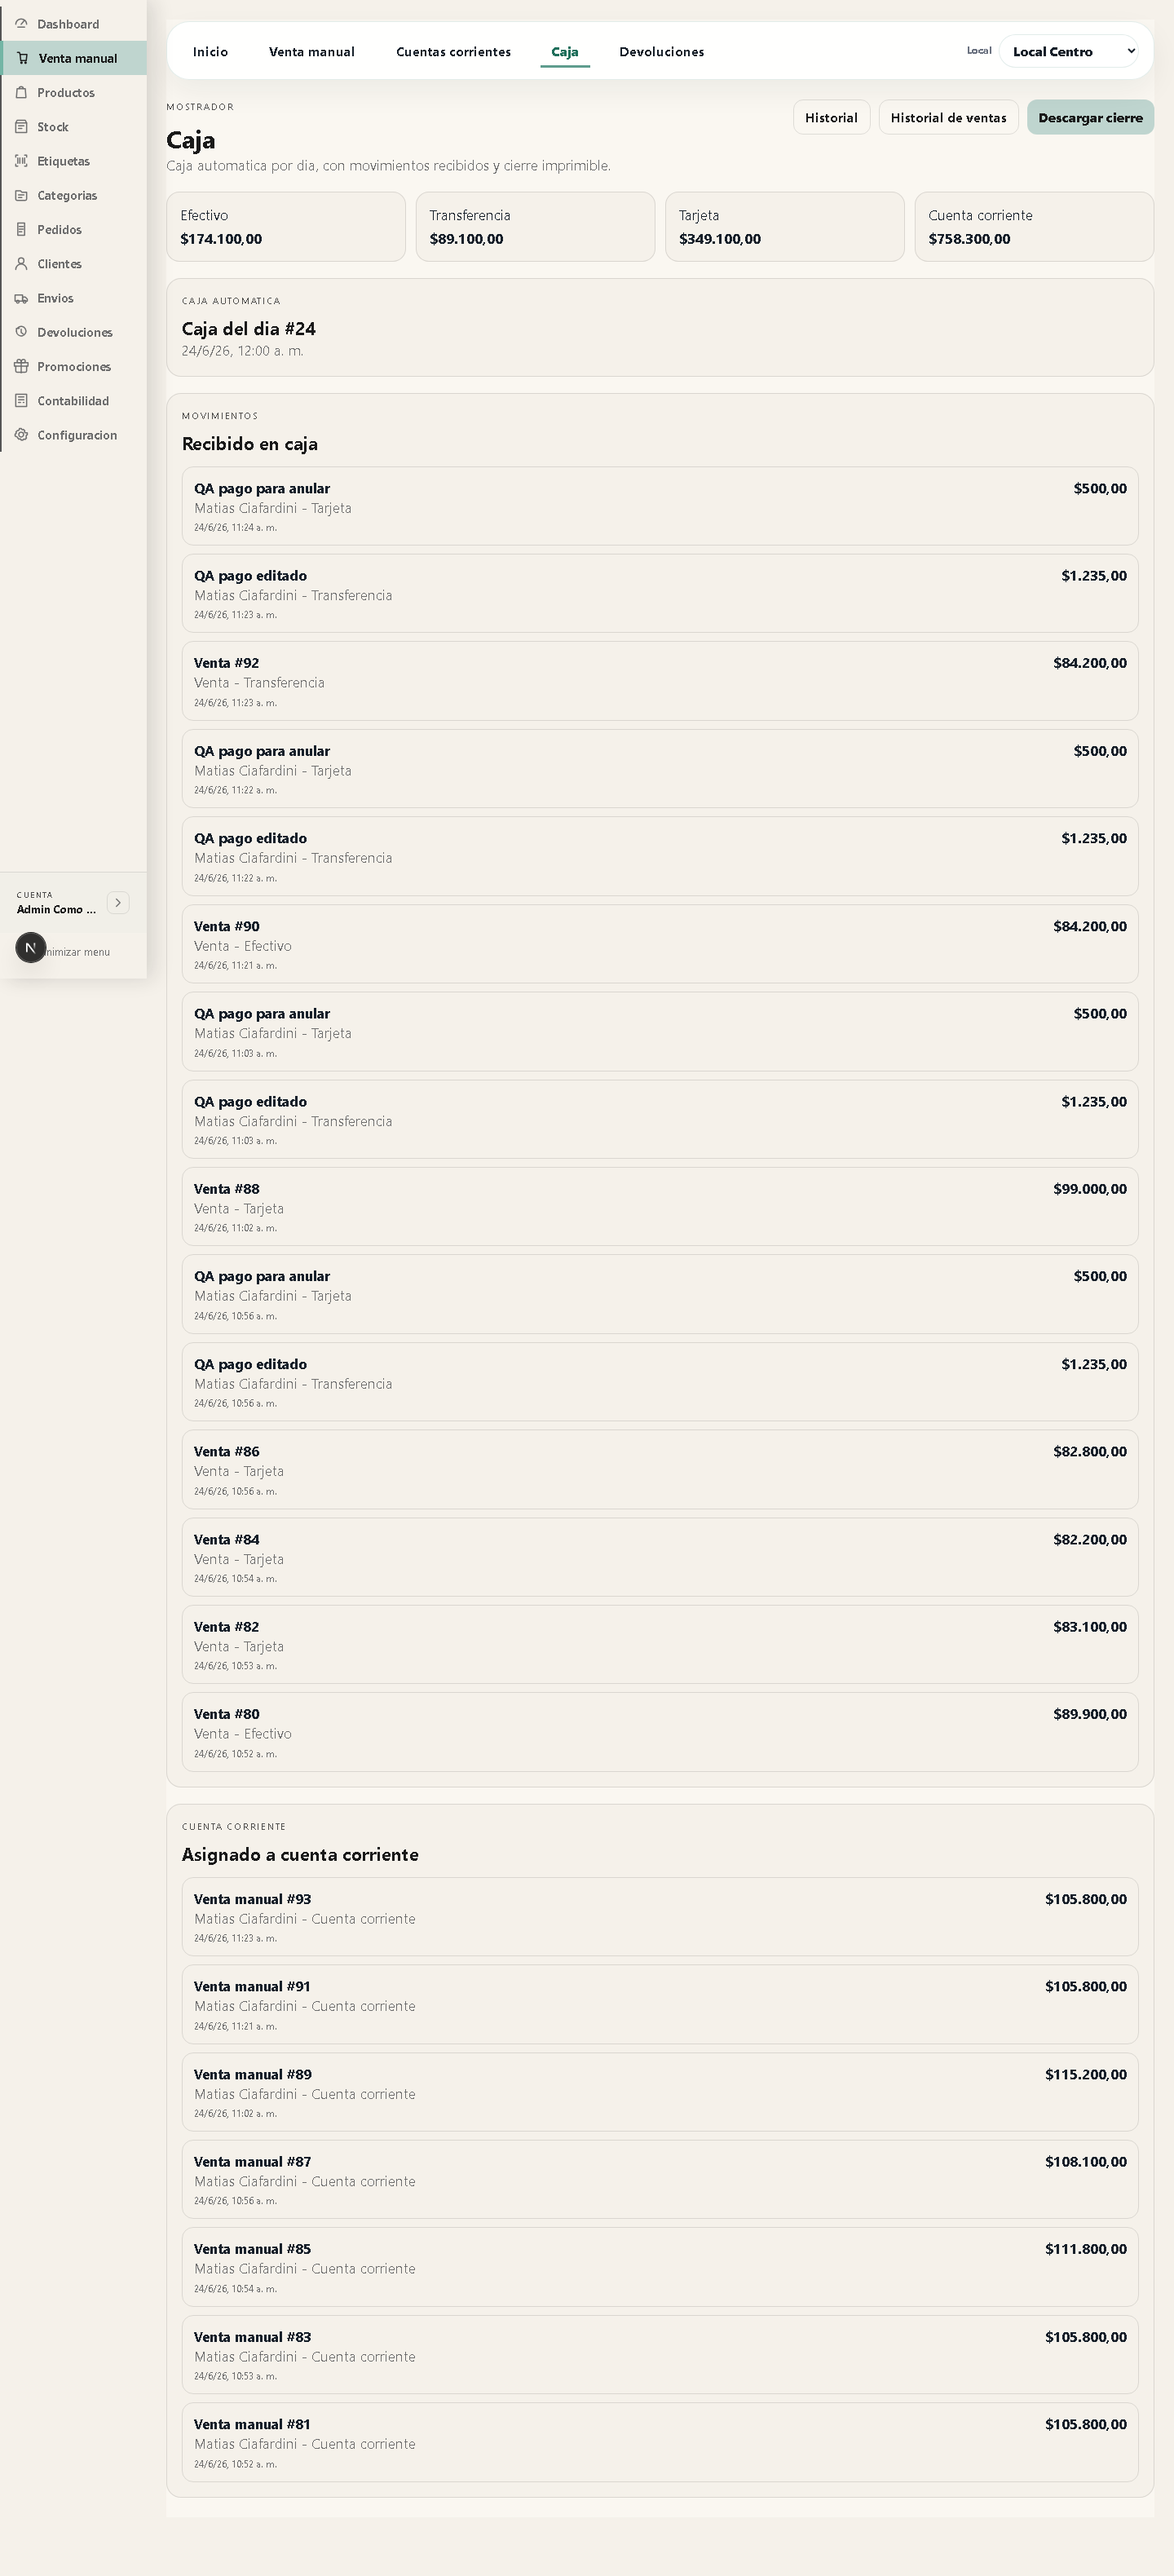
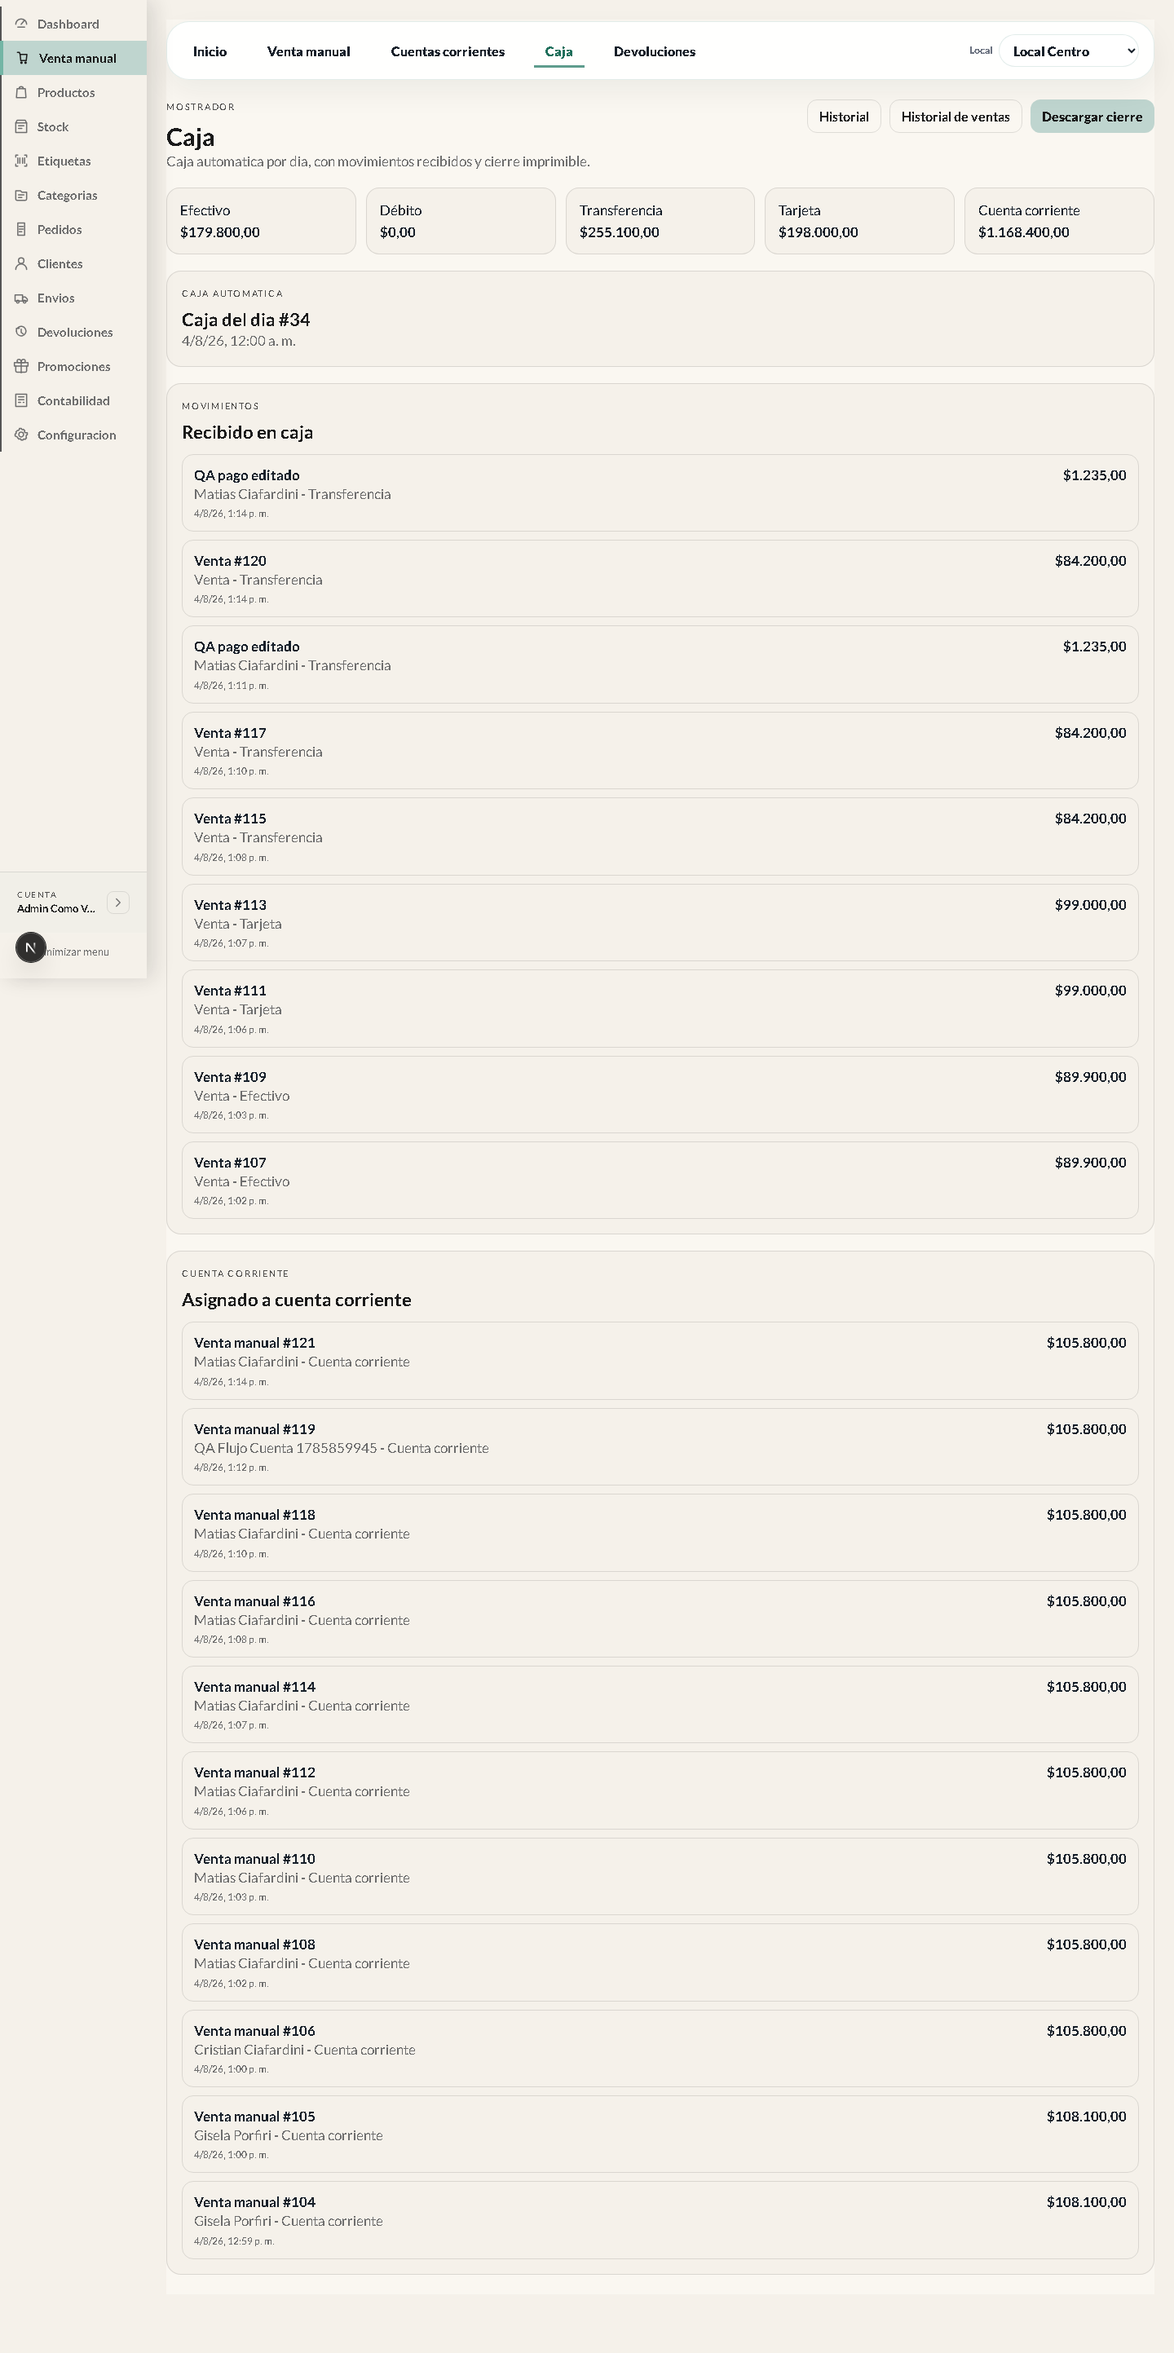
ajustes

diff --git a/ecommerce-storefront/src/components/account/AdminManualSalesSection.tsx b/ecommerce-storefront/src/components/account/AdminManualSalesSection.tsx
@@ -116,7 +116,6 @@ type NewCustomerPayload = {
   phone?: string;
   document?: string;
   notes?: string;
-  source: "current_account";
   address?: {
     address1?: string;
     city?: string;
@@ -1234,7 +1233,6 @@ export default function AdminManualSalesSection({
       phone: newCustomerPhone.trim() || undefined,
       document: newCustomerDocument.trim() || undefined,
       notes: newCustomerNotes.trim() || undefined,
-      source: "current_account",
       address: [
         newCustomerAddress,
         newCustomerCity,
@@ -1275,12 +1273,15 @@ export default function AdminManualSalesSection({
   };
 
   const createCustomerFromPayload = async (customerPayload: NewCustomerPayload) => {
-    const created = (await api("/customers", {
+    const createdAccount = (await api("/current-accounts", {
       method: "POST",
-      body: JSON.stringify(customerPayload),
-    })) as ManualSaleCustomer;
+      body: JSON.stringify({
+        ...customerPayload,
+        storeLocationId: storeLocationId ?? undefined,
+      }),
+    })) as CurrentAccountLookup;
     clearNewCustomerFields();
-    selectCustomer(created);
+    selectCustomer(createdAccount.customer, createdAccount);
     await loadCustomers();
   };
 
@@ -1307,7 +1308,7 @@ export default function AdminManualSalesSection({
       setInactiveAccountPrompt(null);
       setPendingCustomerPayload(null);
       clearNewCustomerFields();
-      selectCustomer(reactivated.customer);
+      selectCustomer(reactivated.customer, reactivated);
       await loadCustomers();
     } catch (err) {
       setCustomerModalError(getErrorMessage(err, "No pudimos reactivar la cuenta corriente."));

diff --git a/ecommerce-backend/src/modules/orders/orders.service.ts b/ecommerce-backend/src/modules/orders/orders.service.ts
@@ -975,10 +975,7 @@ export class OrdersService {
 
       if (
         nextCurrentAccountPayment &&
-        (
-          order.customerEmailSnapshot?.startsWith(`manual-sale@store-${storeId}.local`) ||
-          order.customer?.email?.startsWith(`manual-sale@store-${storeId}.local`)
-        )
+        order.customer?.email?.startsWith(`manual-sale@store-${storeId}.local`)
       ) {
         throw new BadRequestException(
           'Para vender en cuenta corriente, selecciona o registra un cliente.',

diff --git a/output/qa_manual_sales_accounts.py b/output/qa_manual_sales_accounts.py
@@ -150,13 +150,13 @@ def create_current_account_sale(page: Page):
 def open_sales_history_from_cash(page: Page):
     open_top_tab(page, "Caja")
     page.get_by_role("button", name="Historial de ventas").click()
-    expect(page.get_by_text("Ventas para devoluciones")).to_be_visible(timeout=20_000)
+    expect(page.get_by_text("Historial de ventas y devoluciones")).to_be_visible(timeout=20_000)
 
 
 def open_sales_history_from_dashboard(page: Page):
     open_top_tab(page, "Inicio")
     page.get_by_role("button", name=re.compile("Historial de ventas")).click()
-    expect(page.get_by_text("Ventas para devoluciones")).to_be_visible(timeout=20_000)
+    expect(page.get_by_text("Historial de ventas y devoluciones")).to_be_visible(timeout=20_000)
 
 
 def edit_sale_in_open_history(page: Page, sale_id: int, price: int, method: str, reason: str) -> str:
@@ -168,16 +168,21 @@ def edit_sale_in_open_history(page: Page, sale_id: int, price: int, method: str,
     expect(page.get_by_text(f"Editar venta #{sale_id}")).to_be_visible(timeout=15_000)
     page.locator("select").last.select_option(method)
     page.wait_for_timeout(500)
-    discount_toggle = page.get_by_text("Aplicar descuento efectivo/transferencia")
+    discount_toggle = page.get_by_role("checkbox", name=re.compile("Aplicar descuento"))
     if method in ("Efectivo", "Transferencia"):
         expect(discount_toggle).to_be_visible(timeout=10_000)
-        checkbox = page.locator('input[type="checkbox"]').last
-        expect(checkbox).to_be_checked(timeout=10_000)
+        if not discount_toggle.is_checked():
+            discount_toggle.check()
     else:
         expect(discount_toggle).to_have_count(0, timeout=10_000)
         expect(page.get_by_text("Descuento $0,00")).to_be_visible(timeout=10_000)
     page.locator('textarea[placeholder="Ej: se cargo mal el precio"]').fill(reason)
-    page.locator('input[inputmode="decimal"]').first.fill(str(price))
+    decimal_inputs = page.locator('input[inputmode="decimal"]')
+    decimal_inputs.last.fill(str(price))
+    page.wait_for_timeout(300)
+    displayed_total = page.get_by_text(re.compile(r"^Total \$")).last.inner_text()
+    normalized_total = displayed_total.split("$")[-1].replace(".", "").replace(",", ".")
+    decimal_inputs.first.fill(normalized_total)
     with page.expect_response(lambda r: f"/api/proxy/orders/manual/{sale_id}" in r.url and r.request.method == "PATCH", timeout=60_000) as resp:
         page.get_by_role("button", name="Guardar cambios").click()
     response = resp.value
@@ -302,7 +307,7 @@ def open_current_account_detail(page: Page):
 
 
 def register_current_account_payment(page: Page, amount: int, note: str):
-    page.get_by_role("button", name="Registrar pago").nth(1).click(force=True)
+    page.get_by_role("button", name="Registrar pago").last.click(force=True)
     expect(page.get_by_text("Monto entregado")).to_be_visible(timeout=15_000)
     fill_last_visible_text_input(page, str(amount))
     page.locator("select").last.select_option("Tarjeta")
